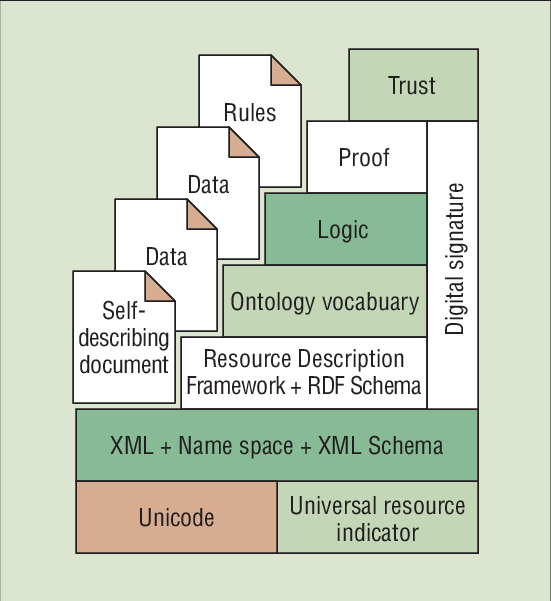
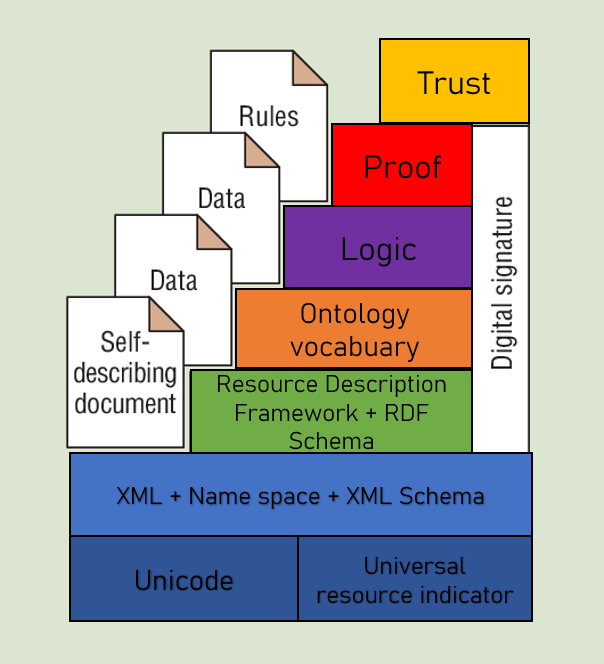
Layer Cake Grafik nachgebaut mit farblicher Zuordnung im Text

diff --git a/Semantic_Web_Layer_Cake.md b/Semantic_Web_Layer_Cake.md
@@ -11,13 +11,13 @@ Bildquelle: {cite}`Hendler2001`
 Die Grafik oben zeigt die die geschichtete Architektur (Layer Cake-Architektur) des Semantic Web. Diese Struktur beschreibt, wie verschiedene Technologien und Konzepte zusammenarbeiten, um das Web mit verständlichen und vernetzten Daten anzureichern.
 Wir erklären nun stufenweise jede Schicht und beginnen bei der untersten:
 
-1. Unicode & URI (Universal Resource Indicator) - Unicode stellt sicher, dass Texte weltweit einheitlich und in allen Sprachen korrekt dargestellt werden können. URI dient als eindeutige Adresse, um jede Ressource im Web identifizieren zu können.
-2. XML, Namespace, & XML Schema - eXtensible Markup Language (XML) ist ein flexibles Textformat, um Daten in strukturierter Form darzustellen – ähnlich wie eine Tabelle oder eine Liste. Es dient als Datenvermittlungswerkzeug. Namespaces verhindern Verwechslungen, wenn unterschiedliche Datensätze dieselben Begriffe verwenden. Sie schaffen also klare Zuordnungen. XML-Schemata definieren die Struktur und Datentypen von XML-Dokumenten, indem sie entsprechende Regeln festlegen.
-3. RDF (Resource Description Framework) & RDF Schema - RDF erlaubt es, Informationen so zu verknüpfen, dass Maschinen sie verstehen können. Zum Beispiel: „Max arbeitet bei Firma XY“. Das RDF Schema erweitert RDF, indem es definiert, welche Art von Informationen angegeben werden können (Bei diesem Beispiel Personen, Firmen oder Beziehungen zwischen ihnen).
+1. <span style="color:#1e3a8a"><strong>Unicode & URI (Universal Resource Indicator)</strong></span> - Unicode stellt sicher, dass Texte weltweit einheitlich und in allen Sprachen korrekt dargestellt werden können. URI dient als eindeutige Adresse, um jede Ressource im Web identifizieren zu können.
+2.  <span style="color:#2563eb"><strong>XML, Namespace, & XML Schema </strong></span> - eXtensible Markup Language (XML) ist ein flexibles Textformat, um Daten in strukturierter Form darzustellen – ähnlich wie eine Tabelle oder eine Liste. Es dient als Datenvermittlungswerkzeug. Namespaces verhindern Verwechslungen, wenn unterschiedliche Datensätze dieselben Begriffe verwenden. Sie schaffen also klare Zuordnungen. XML-Schemata definieren die Struktur und Datentypen von XML-Dokumenten, indem sie entsprechende Regeln festlegen.
+3. <span style="color:#059669"><strong>RDF (Resource Description Framework) & RDF Schema</strong></span> - RDF erlaubt es, Informationen so zu verknüpfen, dass Maschinen sie verstehen können. Zum Beispiel: „Max arbeitet bei Firma XY“. Das RDF Schema erweitert RDF, indem es definiert, welche Art von Informationen angegeben werden können (Bei diesem Beispiel Personen, Firmen oder Beziehungen zwischen ihnen).
 
-4. Ontology & Vocabulary - die Ontologie bietet eine Möglichkeit, strukturierte Vokabulare zu definieren, die Beziehungen und Kategorien in einem bestimmten Bereich beschreiben (z. B. „Eine Katze ist ein Tier“). Diese Schicht ist entscheidend, um es Maschinen zu ermöglichen, die Beziehungen zwischen verschiedenen Datenpunkten zu verstehen und dadurch Schlussfolgerungen sowie logische Ableitungen zu unterstützen. Das Vokabular bezieht sich auf spezifische Begriffe und Konzepte, die verwendet werden, um Entitäten und ihre Beziehungen innerhalb eines Wissensbereichs zu beschreiben, wie ein Wörterbuch für Daten. 
-5. Logic - Diese Schicht ermöglicht es, automatisierte Entscheidungen basierend auf den Daten zu treffen. Beispiel: „Wenn A wahr ist und B wahr ist, dann folgt C.“
-6. Proof - die Prüfschicht stellt die Validität der Ergebnisse sicher, indem sie die Schritte überprüft, die zu einer Schlussfolgerung führen. Ähnlich wie bei einer mathematischen Beweisführung.
-7. Trust - Die oberste Schicht schafft Vertrauen in die Daten, z. B. durch digitale Signaturen. Diese zeigen an, wer die Daten erstellt hat und ob sie unverändert sind. 
+4. <span style="color:#d97706">Ontology & Vocabulary</strong></span> - die Ontologie bietet eine Möglichkeit, strukturierte Vokabulare zu definieren, die Beziehungen und Kategorien in einem bestimmten Bereich beschreiben (z. B. „Eine Katze ist ein Tier“). Diese Schicht ist entscheidend, um es Maschinen zu ermöglichen, die Beziehungen zwischen verschiedenen Datenpunkten zu verstehen und dadurch Schlussfolgerungen sowie logische Ableitungen zu unterstützen. Das Vokabular bezieht sich auf spezifische Begriffe und Konzepte, die verwendet werden, um Entitäten und ihre Beziehungen innerhalb eines Wissensbereichs zu beschreiben, wie ein Wörterbuch für Daten. 
+5. <span style="color:#9333ea"><strong>Logic</strong></span> - Diese Schicht ermöglicht es, automatisierte Entscheidungen basierend auf den Daten zu treffen. Beispiel: „Wenn A wahr ist und B wahr ist, dann folgt C.“
+6. <span style="color:#ef4444"><strong>Proof</strong></span> - die Prüfschicht stellt die Validität der Ergebnisse sicher, indem sie die Schritte überprüft, die zu einer Schlussfolgerung führen. Ähnlich wie bei einer mathematischen Beweisführung.
+7. <span style="color:#facc15"><strong>Trust</strong></span> - Die oberste Schicht schafft Vertrauen in die Daten, z. B. durch digitale Signaturen. Diese zeigen an, wer die Daten erstellt hat und ob sie unverändert sind. 
 
 Jede dieser Schichten baut auf den vorherigen auf. Das Konzept von verlinkten Daten, oder *Linked Data*, ist essenziell für die vollständige Umsetzung einer erfolgreichen Semantic-Web-Struktur. In unserer vorherigen Fallstudie zur Reproduzierbarkeit von Datenanalysen haben wir uns genau mit diesem Konzept auseinandergesetzt - [Weitere Informationen finden Sie hier](https://quadriga-dk.github.io/Tabelle-Fallstudie-1/Markdown/16_Linked-Data.html).
